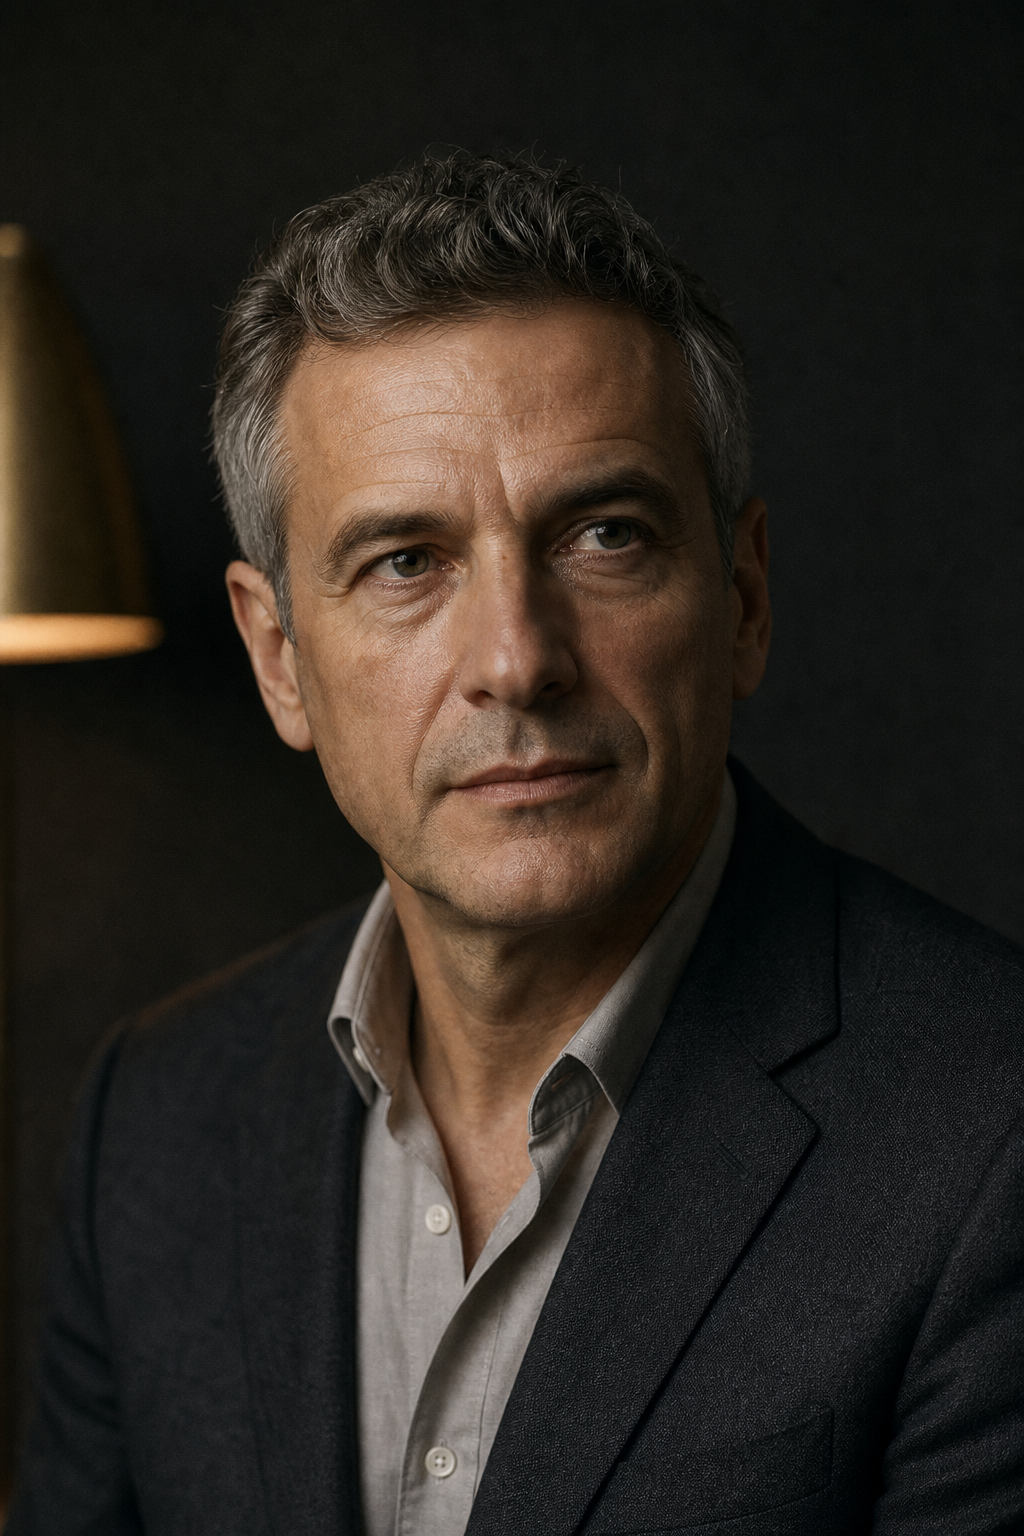
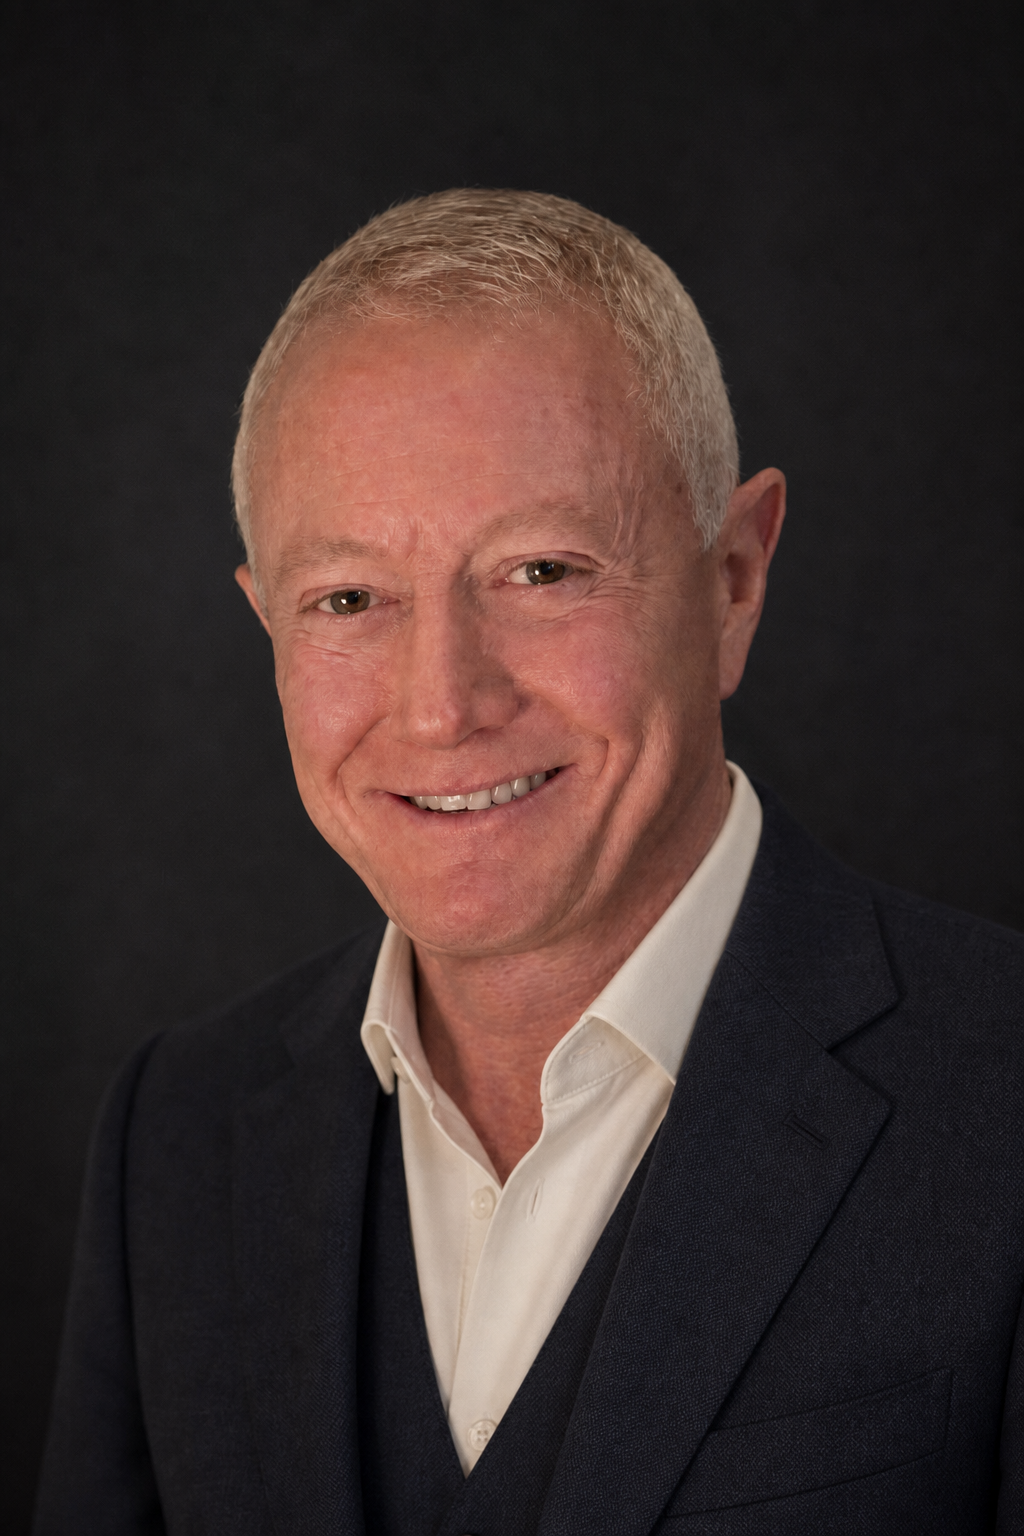
feat: add founder portrait and Texas presence
Replace the placeholder headshot with Ruben Wagner’s approved
portrait and add Texas as a U.S. regional branch beside California HQ.

diff --git a/src/content/site.ts b/src/content/site.ts
@@ -7,7 +7,7 @@ export const site = {
   name: "PDSCOMM",
   domain: "pdscomm.com",
   hq: "California, USA",
-  presence: ["California", "Dubai", "Singapore", "China"],
+  presence: ["California", "Texas", "Dubai", "Singapore", "China"],
   description:
     "PDSCOMM connects government and enterprise buyers with qualified AI software providers—supporting sourcing, evaluation, and due diligence from requirements to shortlist.",
   ctas: {
@@ -605,6 +605,11 @@ export const presenceRegions = [
     note: "Global coordination and commercial function. No street address published.",
   },
   {
+    name: "Texas",
+    role: "Regional presence",
+    note: "U.S. engagement coverage beyond California headquarters. No street address published.",
+  },
+  {
     name: "Dubai",
     role: "Regional presence",
     note: "Gulf and broader Middle East engagement coverage.",
@@ -627,7 +632,7 @@ export const leadership = [
     role: "Founder & Managing Partner",
     href: "/founder",
     background:
-      "Sets the firm’s posture: NDA-first intake, requirements before market noise, and a shortlist a procurement team can defend in writing. Coordinates the four-region practice from California.",
+      "Sets the firm’s posture: NDA-first intake, requirements before market noise, and a shortlist a procurement team can defend in writing. Coordinates the five-region practice from California.",
     focus: "Buyer engagements, final shortlist quality, and confidentiality standard",
   },
   {
@@ -653,14 +658,14 @@ export const founder = {
   role: "Founder & Managing Partner",
   location: "California, USA",
   photoNote:
-    "Portrait placeholder — replace with a current live photograph of Ruben Wagner before launch.",
+    "Ruben Wagner, Founder & Managing Partner.",
   lede:
     "Ruben Wagner founded PDSCOMM so government and enterprise buyers could source AI software the way they already buy everything else that matters: with requirements on paper, vendors under diligence, and a shortlist a procurement team can defend.",
   facts: [
     { label: "Seat", value: "Founder & Managing Partner" },
     { label: "Based", value: "California, USA" },
     { label: "Practice", value: "Institutional AI software brokerage" },
-    { label: "Regions", value: "California · Dubai · Singapore · China" },
+    { label: "Regions", value: "California · Texas · Dubai · Singapore · China" },
   ],
   chapters: [
     {
@@ -680,11 +685,11 @@ export const founder = {
       ],
     },
     {
-      title: "Four markets, one standard",
+      title: "Five markets, one standard",
       body: [
-        "California remained the base. The work did not. Wagner spent sustained time in the buying environments that now sit on PDSCOMM’s map—Dubai and the broader Gulf, Singapore and the Southeast Asian corridor, and China as a technology-landscape and partner-market—not as a tourist of “global,” but as someone watching how AI software was being sold into governments and enterprises that do not share a procurement culture.",
+        "California remained the base. Texas was added as a U.S. regional presence—same standard, a second American buying environment. The work did not stay domestic. Wagner spent sustained time in the buying environments that now sit on PDSCOMM’s map—Dubai and the broader Gulf, Singapore and the Southeast Asian corridor, and China as a technology-landscape and partner-market—not as a tourist of “global,” but as someone watching how AI software was being sold into governments and enterprises that do not share a procurement culture.",
         "What he saw was consistent even when the paperwork was not. In every region, vendors arrived with capability claims. In every region, buyers arrived with constraints they had not yet written. The American instinct was to fill the gap with a consultant’s workshop. The marketplace instinct was to fill it with a catalog. Neither produced a shortlist a serious buyer could stand behind.",
-        "Wagner’s conclusion was unfashionable and, to him, obvious: the missing institution was a brokerage. Not a consultancy that dabbles in AI. Not a marketplace that auctions vendors. A practice that qualifies providers before they meet a buyer, holds NDAs as the default, and treats evaluation as a documented process rather than a series of impressions. PDSCOMM was built to be that practice, with California as headquarters and the other three regions as presence—not flags on a slide.",
+        "Wagner’s conclusion was unfashionable and, to him, obvious: the missing institution was a brokerage. Not a consultancy that dabbles in AI. Not a marketplace that auctions vendors. A practice that qualifies providers before they meet a buyer, holds NDAs as the default, and treats evaluation as a documented process rather than a series of impressions. PDSCOMM was built to be that practice, with California as headquarters and Texas, Dubai, Singapore, and China as presence—not flags on a slide.",
       ],
     },
     {
@@ -699,7 +704,7 @@ export const founder = {
       title: "How he works now",
       body: [
         "Wagner still takes the first briefing on a serious buyer engagement. Fifteen minutes is the advertised length because that is usually enough to know whether the requirement is real, whether the buyer can put a committee around it, and whether PDSCOMM is the right instrument. If the answer is no, he says so. If the answer is yes, the work that follows is documentation, not a relationship campaign.",
-        "Day to day he coordinates the four-region practice from California: buyer-side engagements, the quality of the final shortlist, and the confidentiality standard that every person in the firm is expected to keep. Named partners and specialists are introduced under NDA when a brief requires them. They are not published as a roster, because a public roster is an invitation to be sold to.",
+        "Day to day he coordinates the five-region practice from California: buyer-side engagements, the quality of the final shortlist, and the confidentiality standard that every person in the firm is expected to keep. Named partners and specialists are introduced under NDA when a brief requires them. They are not published as a roster, because a public roster is an invitation to be sold to.",
         "People who work with him describe a narrow set of preferences: fewer meetings, more files; fewer adjectives, more constraints; a shortlist of three that can be compared, not a longlist of twelve that cannot. He still reads the packet. That is not branding. It is how he decides whether PDSCOMM did the job.",
       ],
     },
@@ -718,7 +723,7 @@ export const founder = {
     {
       period: "Gulf & Asia",
       title: "The same gap, different paperwork",
-      body: "Extended time in Dubai, Singapore, and China market environments. Confirmed that AI software was being sold globally with the same demo-first habit, while buyers in each region still needed documentation their own procurement culture would accept. The four-region map of PDSCOMM comes from this work, not from a later expansion slide.",
+      body: "Extended time in Dubai, Singapore, and China market environments, with Texas as the second U.S. presence. Confirmed that AI software was being sold globally with the same demo-first habit, while buyers in each region still needed documentation their own procurement culture would accept. The five-region map of PDSCOMM comes from this work, not from a later expansion slide.",
     },
     {
       period: "The thesis",
@@ -728,7 +733,7 @@ export const founder = {
     {
       period: "PDSCOMM",
       title: "Founder & Managing Partner",
-      body: "Established the firm from California with presence in Dubai, Singapore, and China. Sets intake posture, shortlist standard, and confidentiality. Still takes the opening briefing. The public biography on this page will be edited to the dated record; the operating standard will not.",
+      body: "Established the firm from California with presence in Texas, Dubai, Singapore, and China. Sets intake posture, shortlist standard, and confidentiality. Still takes the opening briefing. The public biography on this page will be edited to the dated record; the operating standard will not.",
     },
   ],
   workingWith: [
@@ -750,7 +755,7 @@ export const founder = {
     },
   ],
   closing:
-    "This page is a working biography. Dates, prior seats, and personal particulars will be replaced with Ruben Wagner’s own record. Until then, treat the name as the placeholder and the method as the fact: a California-based founder running a four-region AI software brokerage from the buyer’s side of the table.",
+    "This page is a working biography. Dates, prior seats, and personal particulars will be replaced with Ruben Wagner’s own record. Until then, treat the name as the placeholder and the method as the fact: a California-based founder running a five-region AI software brokerage from the buyer’s side of the table.",
 };
 
 export const operatingPrinciples = [
@@ -840,7 +845,7 @@ export const buyerIntakeFields: IntakeField[] = [
     name: "region",
     label: "Region",
     type: "select",
-    options: ["California", "Dubai", "Singapore", "China", "Other"],
+    options: ["California", "Texas", "Dubai", "Singapore", "China", "Other"],
     required: true,
   },
   {

diff --git a/src/app/about/page.tsx b/src/app/about/page.tsx
@@ -31,7 +31,7 @@ export default function AboutPage() {
             discipline.
           </>
         }
-        lead="A brokerage that treats institutional buying as a craft—structured, discreet, and consistent across four regions."
+        lead="A brokerage that treats institutional buying as a craft—structured, discreet, and consistent across five regions."
         image={media.about.header}
         imageAlt="California civic building at blue hour"
       />
@@ -83,19 +83,21 @@ export default function AboutPage() {
           <SectionHeading
             index="02"
             eyebrow="Global footprint"
-            title="Four regions. One standard."
-            lead="Headquarters in California, with presence across three further markets. No street addresses are published—deliberately."
+            title="Five regions. One standard."
+            lead="Headquarters in California, with presence in Texas and three further markets. No street addresses are published—deliberately."
           />
           <div className="mt-14 grid gap-px overflow-hidden rounded-sm border border-hairline bg-hairline sm:grid-cols-2">
             {presenceRegions.map((region, i) => {
               const still =
                 region.name === "California"
                   ? media.about.california
-                  : region.name === "Dubai"
-                    ? media.about.dubai
-                    : region.name === "Singapore"
-                      ? media.about.singapore
-                      : media.about.china;
+                  : region.name === "Texas"
+                    ? media.about.texas
+                    : region.name === "Dubai"
+                      ? media.about.dubai
+                      : region.name === "Singapore"
+                        ? media.about.singapore
+                        : media.about.china;
               return (
                 <AnimatedReveal key={region.name} delay={i * 0.05} className="bg-charcoal">
                   <div className="group flex h-full flex-col bg-soft/30 transition-colors duration-300 hover:bg-soft/60">
@@ -188,7 +190,7 @@ export default function AboutPage() {
                 index="04"
                 eyebrow="Advisory network"
                 title="Specialists we convene when the brief requires it."
-                lead="Procurement counsel, security-documentation reviewers, and regional market specialists across California, Dubai, Singapore, and China. Named introductions are arranged under NDA—never published as a roster."
+                lead="Procurement counsel, security-documentation reviewers, and regional market specialists across California, Texas, Dubai, Singapore, and China. Named introductions are arranged under NDA—never published as a roster."
               />
             </div>
           </div>
@@ -227,7 +229,7 @@ export default function AboutPage() {
             index="06"
             eyebrow="Headquarters"
             title="Headquartered in California, USA."
-            lead="Global coordination runs from California. Regional presence in Dubai, Singapore, and China covers each market's buying environment."
+            lead="Global coordination runs from California. Regional presence in Texas, Dubai, Singapore, and China covers each market's buying environment."
             align="center"
           />
         </Container>

diff --git a/src/app/contact/page.tsx b/src/app/contact/page.tsx
@@ -56,7 +56,7 @@ export default function ContactPage() {
             title="Reachable across regions."
             lead="Engagements are coordinated from California and served across the regions below. No public addresses—briefings are where introductions happen."
           />
-          <div className="mt-14 grid gap-px overflow-hidden rounded-sm border border-hairline bg-hairline sm:grid-cols-2 lg:grid-cols-4">
+          <div className="mt-14 grid gap-px overflow-hidden rounded-sm border border-hairline bg-hairline sm:grid-cols-2 lg:grid-cols-5">
             {site.presence.map((region, i) => (
               <AnimatedReveal key={region} delay={i * 0.05} className="bg-charcoal">
                 <div className="group h-full bg-soft/30 p-8 text-center transition-colors duration-300 hover:bg-soft/60">
@@ -122,6 +122,8 @@ function regionNote(region: string): string {
   switch (region) {
     case "California":
       return "Headquarters — global coordination.";
+    case "Texas":
+      return "Regional presence — U.S. engagement coverage.";
     case "Dubai":
       return "Regional presence — Gulf engagement coverage.";
     case "Singapore":

diff --git a/src/app/founder/page.tsx b/src/app/founder/page.tsx
@@ -39,7 +39,7 @@ export default function FounderPage() {
                 <div className="relative aspect-[3/4] overflow-hidden rounded-sm border border-hairline bg-soft/40">
                   <Image
                     src={media.founder.portrait}
-                    alt="Portrait placeholder for Ruben Wagner, Founder of PDSCOMM"
+                    alt="Ruben Wagner, Founder & Managing Partner of PDSCOMM"
                     fill
                     className="object-cover object-top"
                     sizes="(min-width: 1024px) 40vw, 100vw"

diff --git a/src/content/media.ts b/src/content/media.ts
@@ -39,6 +39,7 @@ export const media = {
   about: {
     header: "/images/about-header.png",
     california: "/images/about-california.png",
+    texas: "/images/about-texas.png",
     dubai: "/images/about-dubai.png",
     singapore: "/images/about-singapore.png",
     china: "/images/about-china.png",
